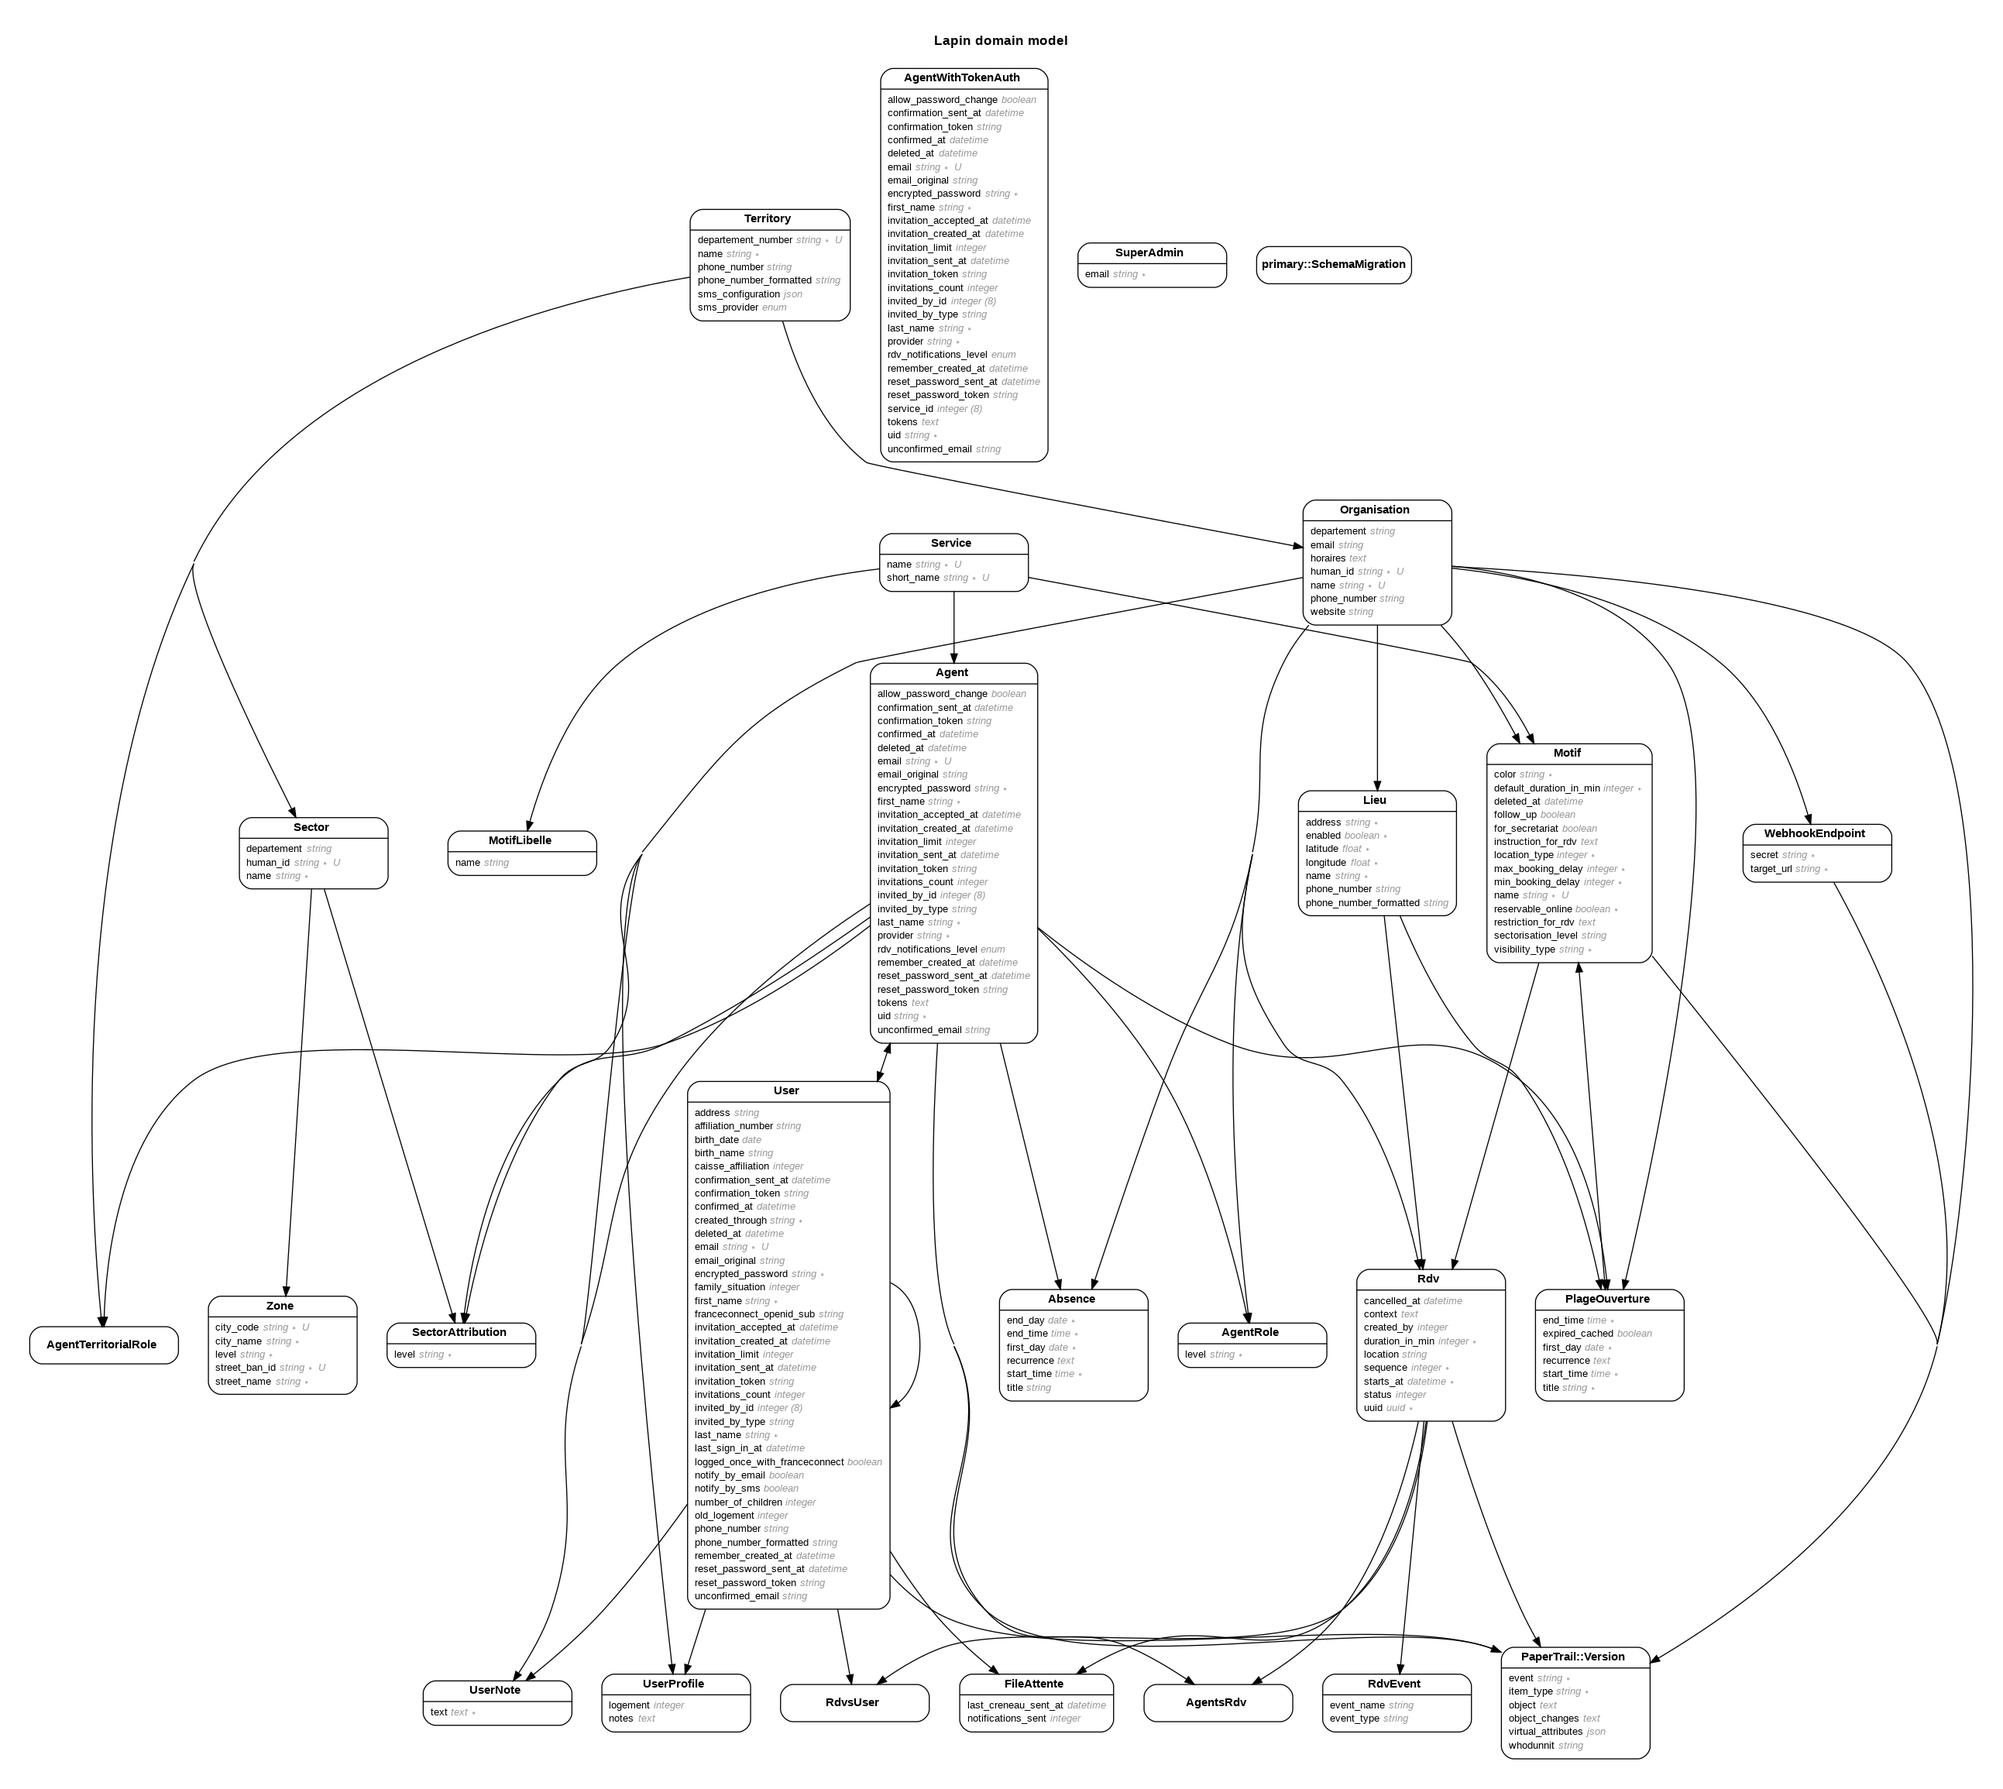
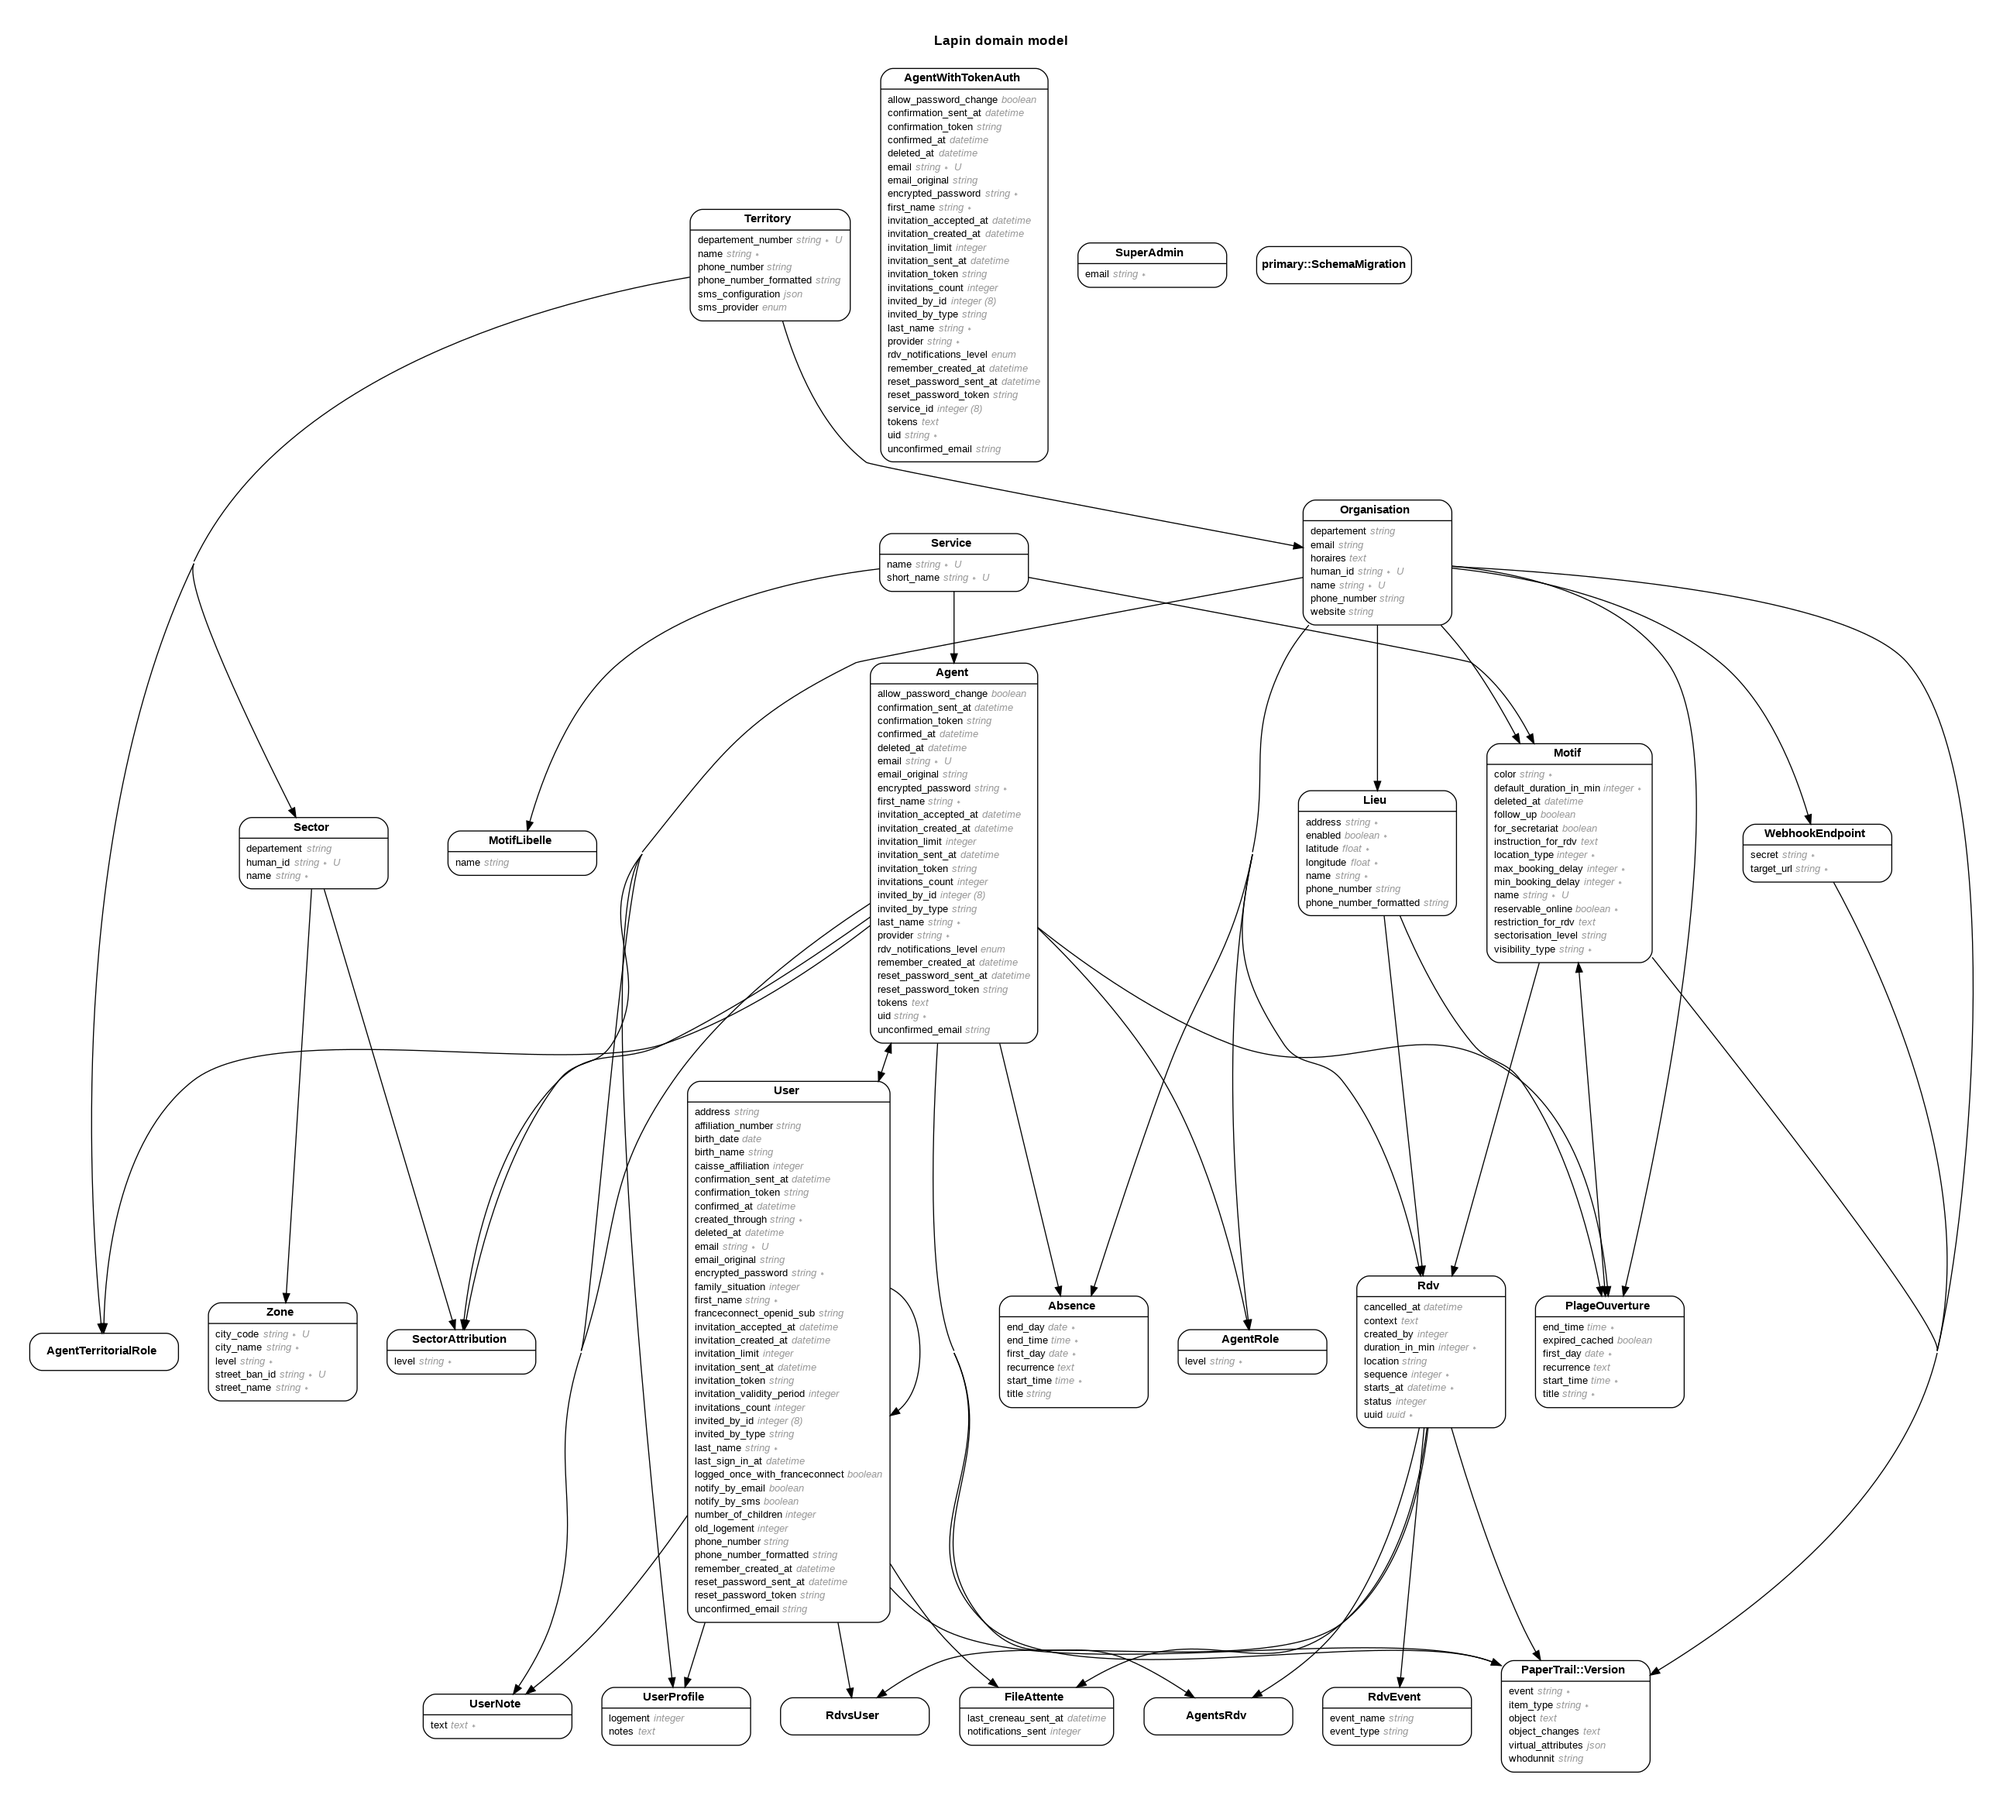
override invitation_period_valid? & add invitation_validity_period to users

diff --git a/app/models/user.rb b/app/models/user.rb
@@ -150,6 +150,13 @@ class User < ApplicationRecord
     birth_date.present? && birth_date > 18.years.ago
   end
 
+  def invitation_due_at
+    time = invitation_created_at || invitation_sent_at
+    return time + invitation_validity_period.days if invitation_validity_period.present?
+
+    super
+  end
+
   protected
 
   def generate_invitation_token
@@ -171,13 +178,11 @@ class User < ApplicationRecord
     end
   end
 
-  def invitation_due_at(duration_in_days = nil)
-    time = invitation_created_at || invitation_sent_at || Time.now
-    return time + duration_in_days unless duration_in_days.nil? # return duration_in_days if duration_in_days.present?
+  def invitation_period_valid?
+    time = invitation_created_at || invitation_sent_at
+    return (time && (time.utc >= invitation_validity_period.days.ago)) unless invitation_validity_period.nil?
 
-    return nil if User.invite_for.zero? || User.invite_for.nil? # return nil unless User.invite_for
-
-    time + User.invite_for
+    super
   end
 
   def password_required?

diff --git a/app/controllers/api/v1/users_controller.rb b/app/controllers/api/v1/users_controller.rb
@@ -2,7 +2,7 @@
 
 class Api::V1::UsersController < Api::V1::BaseController
   PERMITTED_PARAMS = %i[
-    first_name birth_name last_name email address phone_number invitation_validity
+    first_name birth_name last_name email address phone_number invitation_validity_period
     birth_date responsible_id caisse_affiliation affiliation_number
     family_situation number_of_children notify_by_sms notify_by_email
   ].freeze
@@ -37,10 +37,10 @@ class Api::V1::UsersController < Api::V1::BaseController
   def invite
     @user = User.find(params[:id])
     authorize(@user)
+    @user.invitation_validity_period = params[:invitation_validity_period]
     @user.invite! do |u|
       u.skip_invitation = true
       u.invited_by = pundit_user.agent
-      u.send(:invitation_due_at, params[:invitation_validity].days) if params[:invitation_validity].present?
     end
   end
 

diff --git a/db/schema.rb b/db/schema.rb
@@ -10,7 +10,7 @@
 #
 # It's strongly recommended that you check this file into your version control system.
 
-ActiveRecord::Schema.define(version: 2021_05_11_111514) do
+ActiveRecord::Schema.define(version: 2021_06_03_103647) do
 
   # These are extensions that must be enabled in order to support this database
   enable_extension "plpgsql"
@@ -412,6 +412,7 @@ ActiveRecord::Schema.define(version: 2021_05_11_111514) do
     t.string "franceconnect_openid_sub"
     t.string "created_through"
     t.boolean "logged_once_with_franceconnect"
+    t.integer "invitation_validity_period"
     t.index ["confirmation_token"], name: "index_users_on_confirmation_token", unique: true
     t.index ["email"], name: "index_users_on_email", unique: true, where: "(email IS NOT NULL)"
     t.index ["invitation_token"], name: "index_users_on_invitation_token", unique: true

diff --git a/db/migrate/20210603103647_add_invitation_period_to_user.rb b/db/migrate/20210603103647_add_invitation_period_to_user.rb
@@ -1,0 +1,5 @@
+class AddInvitationPeriodToUser < ActiveRecord::Migration[6.0]
+  def change
+    add_column :users, :invitation_validity_period, :integer
+  end
+end
